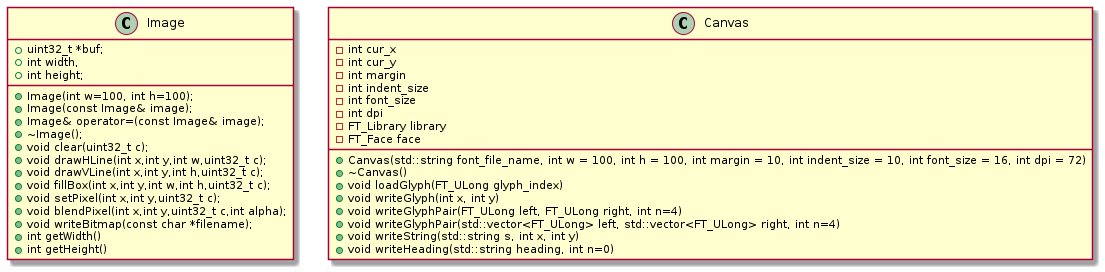
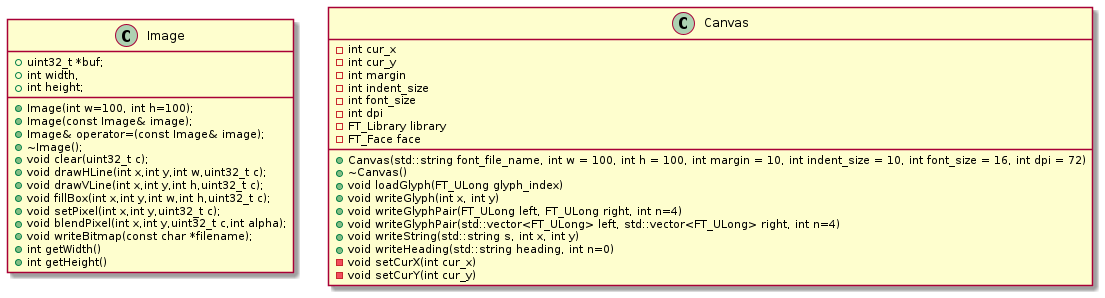
[fix]適切なファイルサイズでビットマップを出力するようにした

Changed region(s): [[0.0, 0.0, 1.0, 1.0]]

diff --git a/canvas.cpp b/canvas.cpp
@@ -70,21 +70,21 @@ void Canvas::writeGlyphPair(FT_ULong left, FT_ULong right, int n)
     int indent = margin + indent_size * n;
 
     if(cur_x < indent)
-        cur_x = indent;
+        setCurX(indent);
 
     if(cur_x + margin * 3 + font_dot_size * 2 > getWidth()){
-        cur_x = margin + indent_size * n;
-        cur_y += font_dot_size + margin;
+        setCurX(margin + indent_size * n);
+        setCurY(cur_y + font_dot_size + margin);
     }
-    cur_x += margin;
+    setCurX(cur_x + margin);
     loadGlyph(left);
     writeGlyph(cur_x, cur_y);
 
-    cur_x += margin + font_dot_size;
+    setCurX(cur_x + margin + font_dot_size);
     loadGlyph(right);
     writeGlyph(cur_x, cur_y);
 
-    cur_x += margin + font_dot_size;
+    setCurX(cur_x + margin + font_dot_size);
     drawVLine(cur_x, cur_y - face->glyph->metrics.horiBearingY/64, font_dot_size, 0x000000);
 }
 
@@ -105,7 +105,21 @@ void Canvas::writeString(std::string s, int x, int y)
 
 void Canvas::writeHeading(std::string heading, int n)
 {
-    cur_x = margin + indent_size * n;
-    cur_y += (double)font_size/72.0 * dpi + margin;
+    setCurX(margin + indent_size * n);
+    setCurY(cur_y + (double)font_size/72.0 * dpi + margin);
     writeString(heading, cur_x,  cur_y);
+}
+
+void Canvas::setCurX(int cur_x)
+{
+    this->cur_x = cur_x;
+}
+
+void Canvas::setCurY(int cur_y)
+{
+    int font_dot_size = (double)font_size/72.0 * dpi ;
+
+    this->cur_y = cur_y;
+    if(cur_y + font_dot_size > getHeight())
+        expand(1000);
 }

diff --git a/image.cpp b/image.cpp
@@ -178,6 +178,26 @@ void Image::blendPixel(int x,int y,uint32_t c,int alpha)
 	}
 }
 
+void Image::expand(int size, bool x_axis, uint32_t c)
+{
+    if(size < 0)
+        throw "size < 0";
+
+    int old_width = width, old_height = height;
+
+    (x_axis ? width : height) += size;
+
+    uint32_t *new_buf = new uint32_t[height * width];
+
+    for(int h = 0; h < height; h++)
+        for(int w = 0; w < width; w++)
+            new_buf[h * width + w] = (h < old_height && w < old_width)
+                    ? buf[h * old_width + w]
+                    : c;
+
+    buf = new_buf;
+}
+
 void Image::writeBitmap(const char *filename)
 {
 	FILE *fp;

diff --git a/Test/fontanalysis_bitmap.cpp b/Test/fontanalysis_bitmap.cpp
@@ -95,7 +95,7 @@ void FontAnalysisBitmap::print_script(FontSeeker& fs, Canvas& canvas, Gsub& gsub
 
 void FontAnalysisBitmap::run() {
     for(string filename : fonts2){
-        Canvas canvas(filename, 1000, 30000, 10, 50, 16, 120);
+        Canvas canvas(filename, 1000, 1000, 10, 50, 16, 120);
         canvas.writeBitmap((filename + "_analysis.bmp").c_str());
 
         FontSeeker fs(filename);

diff --git a/image.h b/image.h
@@ -20,6 +20,7 @@ public:
     void fillBox(int x,int y,int w,int h,uint32_t c);
     void setPixel(int x,int y,uint32_t c);
     void blendPixel(int x,int y,uint32_t c,int alpha);
+    void expand(int size, bool x_axis = false, uint32_t c = 0xffffff);
     void writeBitmap(const char *filename);
     int getWidth() { return width; };
     int getHeight() { return height; };

diff --git a/Test/imagetest.cpp b/Test/imagetest.cpp
@@ -51,4 +51,9 @@ void ImageTest::run()
     image.writeBitmap("output1.bmp");
     image2.writeBitmap("output2.bmp");
     image3.writeBitmap("output3.bmp");
+
+    image3.expand(100, true, 0xff0000);
+    image3.writeBitmap("output3-2.bmp");
+    image3.expand(100, false, 0x00ff00);
+    image3.writeBitmap("output3-3.bmp");
 }

diff --git a/canvas.h b/canvas.h
@@ -29,6 +29,9 @@ public:
     void writeGlyphPair(std::vector<FT_ULong> left, std::vector<FT_ULong> right, int n=4);
     void writeString(std::string s, int x, int y);
     void writeHeading(std::string heading, int n=0);
+private:
+    void setCurX(int cur_x);
+    void setCurY(int cur_y);
 };
 
 #endif // CANVAS_H
